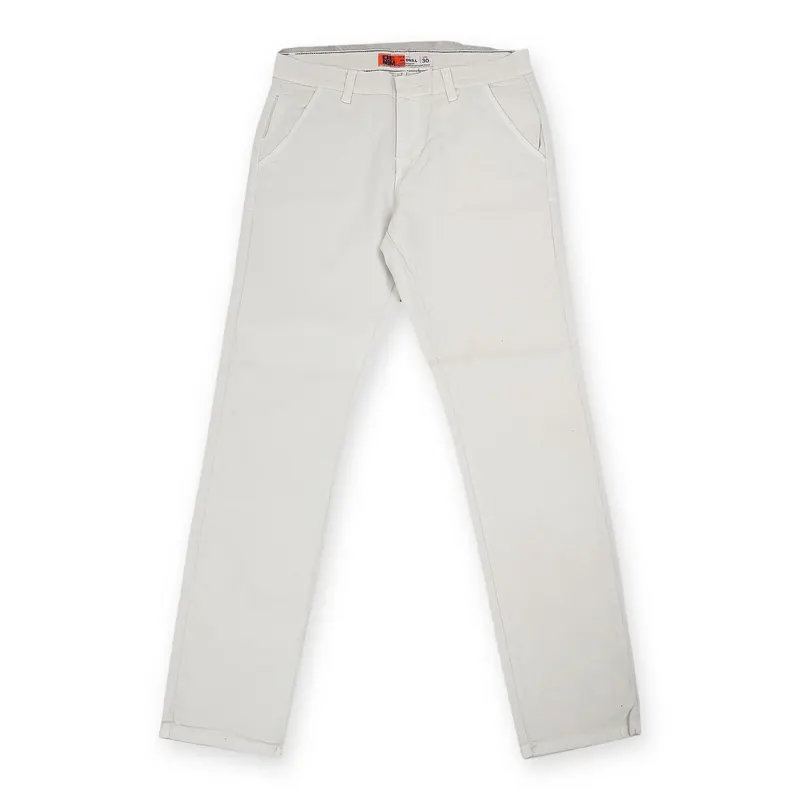
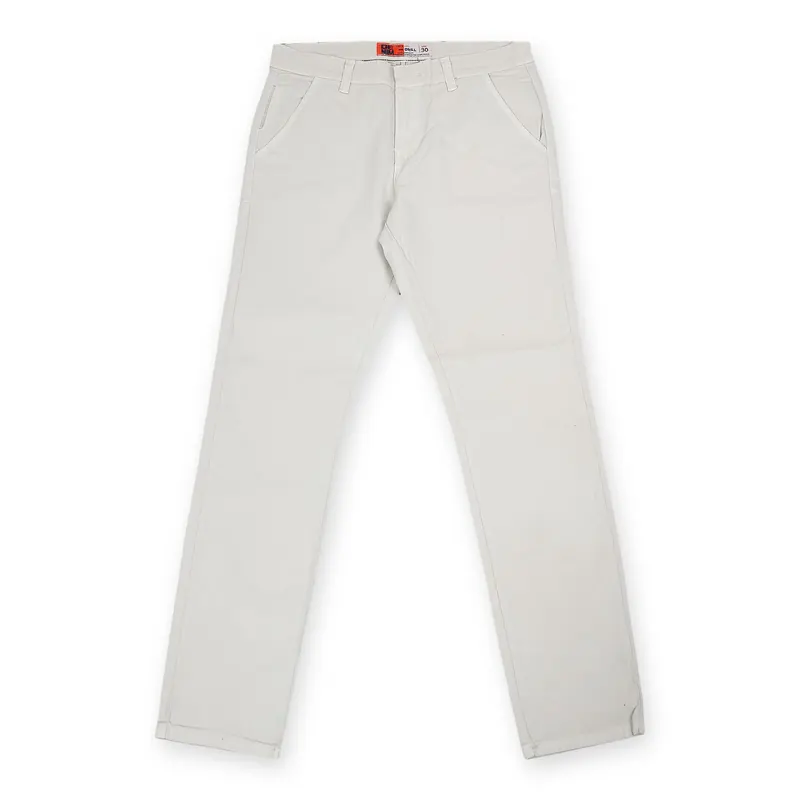
fix(fotos): Semi Pitillo Hueso sin la franja de piso encima de la pretina
El recorte se llevaba una franja de piso sobre la pretina; se borra con su forma
exacta (BORRAR en la herramienta). Borrar por tono no sirve: el piso claro y la
tela en sombra tienen el mismo tono y se comía partes de otras prendas.

Claude-Session: https://claude.ai/code/session_01L7XawWyyE8YjHDxizCScUq

diff --git a/productos.js b/productos.js
@@ -6,7 +6,7 @@
 //   fotos/<código>/modelo-N.webp    fotos de cuerpo entero; "modelos" dice cuántas hay.
 // Un producto sin fotos aquí sale en la web con la imagen "Foto pronto" y color a coordinar.
 window.CATALOGO = {
-  versionFotos: "202611221500", // la cambia herramientas/preparar_fotos.py; obliga al navegador a bajar las fotos nuevas
+  versionFotos: "202611231000", // la cambia herramientas/preparar_fotos.py; obliga al navegador a bajar las fotos nuevas
   whatsapp: "51908341818", // WhatsApp Business de Galmor. 51 = Perú + celular, sin espacios. Es el único lugar donde se escribe.
 
   // Datos para pagar.

diff --git a/herramientas/fotos_fondo_blanco.py b/herramientas/fotos_fondo_blanco.py
@@ -18,7 +18,7 @@ import unicodedata
 
 import cv2
 import numpy as np
-from PIL import Image, ImageFilter
+from PIL import Image, ImageDraw, ImageFilter
 
 LADO = 1920
 # Reason (dueño, 2026-11-22: "el hueso tiene partes mal recortadas"): el modelo "lite" dejaba el borde con dientes en
@@ -68,6 +68,15 @@ def slug(s: str) -> str:  # igual que slug() de app.js
     return "-".join("".join(c for c in s if not unicodedata.combining(c)).split())
 
 
+# Retoques a mano: foto -> polígonos (en píxeles de la foto original de 2400 px) que el recorte se lleva de más.
+# Reason (dueño, 2026-11-23: "el Hueso es lo único que falla"): en el Semi Pitillo Hueso (#205) el recorte se lleva
+# una franja de piso encima de la pretina. Por tono no se distingue de la tela en sombra (se probó: borrar "lo que
+# parece piso" se comía partes de otras prendas), así que la franja se borra con su forma exacta.
+BORRAR = {
+    205: [[(2309, 780), (2309, 1600), (2249, 1600), (2253, 1500), (2257, 1300), (2263, 1100), (2260, 780)]],
+}
+
+
 def enderezar(rgba: Image.Image) -> Image.Image:
     """Deja verticales los bordes largos de la prenda (las costuras de la pierna), hasta ±25°.
 
@@ -100,7 +109,10 @@ def ficha(sesion, n: int, giro: int, revision: str | None = None) -> Image.Image
     rgba = remove(im, session=sesion, post_process_mask=True)
     # Reason (dueño, 2026-11-22: "no está bien pintado el blanco"): el recorte incluía 1-3 px de la sombra que la prenda
     # hace en el piso; en prendas claras se veía como una línea gris en el borde. Se le come 4 px al borde.
-    borde = cv2.erode(np.asarray(rgba.split()[3]), cv2.getStructuringElement(cv2.MORPH_ELLIPSE, (9, 9)))
+    alfa = rgba.split()[3]
+    for poligono in BORRAR.get(n, []):
+        ImageDraw.Draw(alfa).polygon(poligono, fill=0)
+    borde = cv2.erode(np.asarray(alfa), cv2.getStructuringElement(cv2.MORPH_ELLIPSE, (9, 9)))
     rgba.putalpha(Image.fromarray(cv2.GaussianBlur(borde, (0, 0), 1.2)))
     rgba = enderezar(rgba.rotate(giro, expand=True, resample=Image.Resampling.BICUBIC))
     rgba = rgba.crop(rgba.getbbox())
